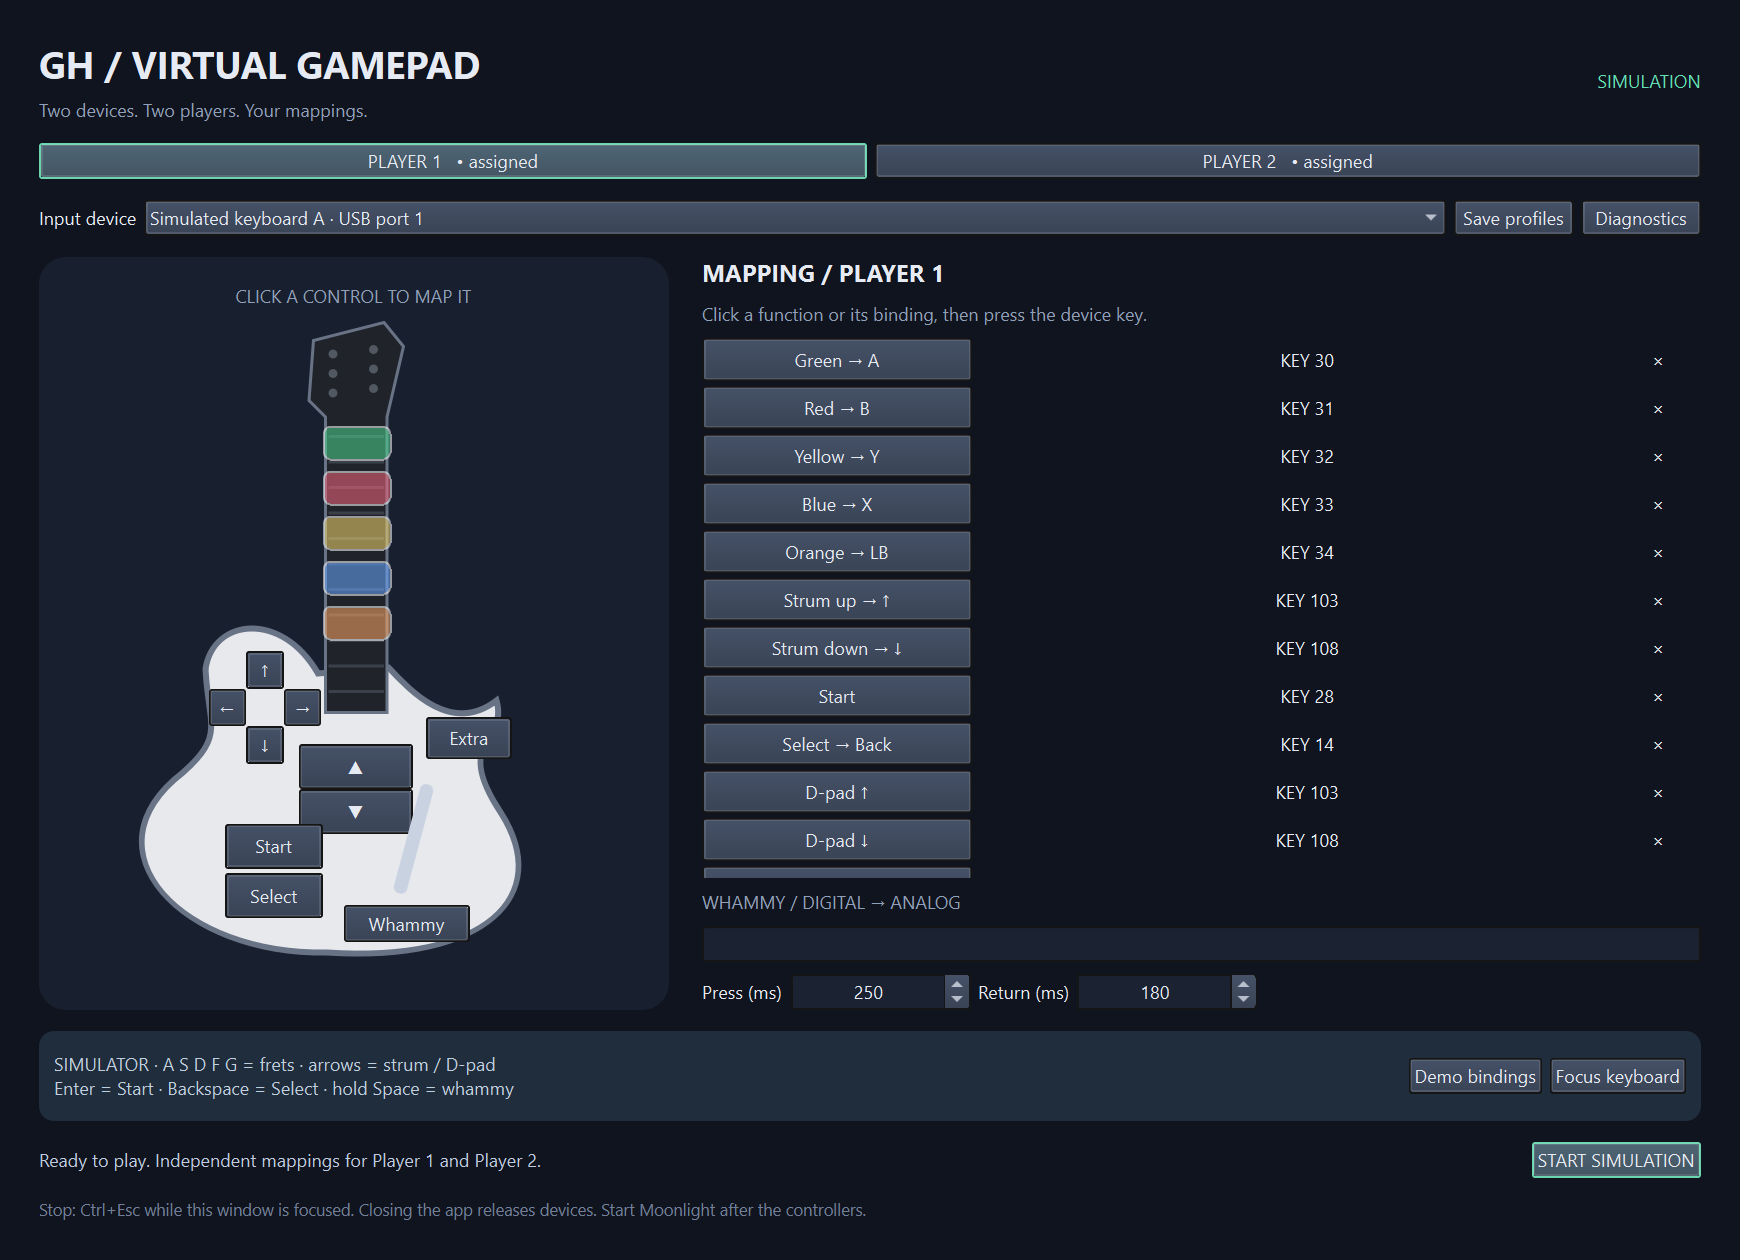
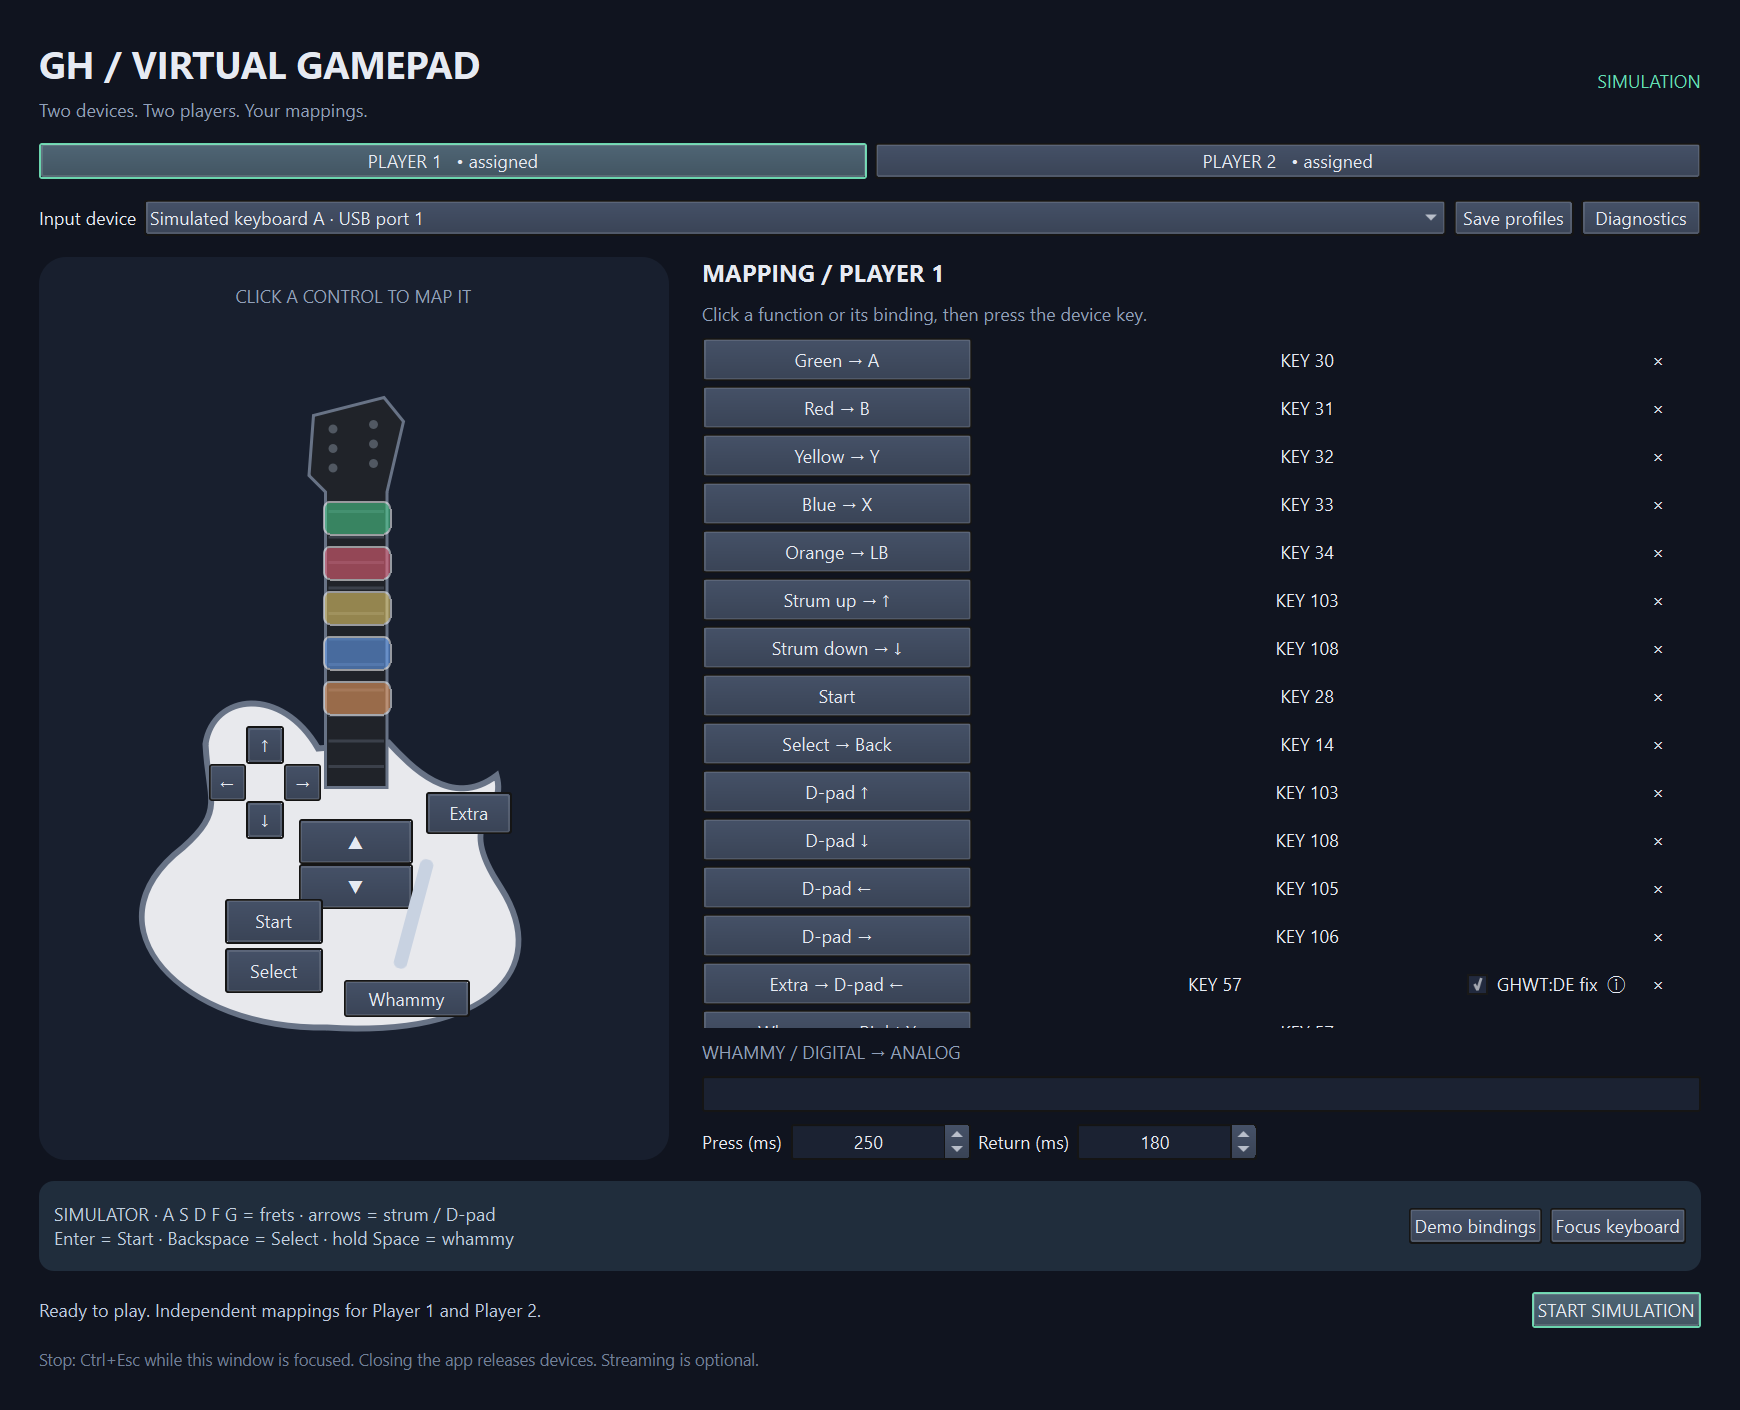
Add optional GHWTDE Extra to D-pad compatibility mode

diff --git a/gui/Main.qml b/gui/Main.qml
@@ -168,7 +168,7 @@ ApplicationWindow {
                                 Button {
                                     objectName: "mapping-" + mappingRow.functionId
                                     Layout.preferredWidth: 180; Layout.preferredHeight: 29
-                                    text: window.labels[index]
+                                    text: mappingRow.functionId === "extra" && bridge.ghwtdeExtraFix ? "Extra → D-pad ←" : window.labels[index]
                                     highlighted: bridge.learningAction === mappingRow.functionId || !!bridge.pad.buttons[mappingRow.functionId]
                                     enabled: !bridge.isRunning
                                     onClicked: window.beginMapping(mappingRow.functionId)
@@ -180,6 +180,17 @@ ApplicationWindow {
                                     enabled: !bridge.isRunning
                                     text: bridge.bindings[mappingRow.functionId] ? ((bridge.bindings[mappingRow.functionId].kind === 1 ? "KEY " : "AXIS ") + bridge.bindings[mappingRow.functionId].code) : "Not mapped — click to assign"
                                     onClicked: window.beginMapping(mappingRow.functionId)
+                                }
+                                CheckBox {
+                                    objectName: mappingRow.functionId === "extra" ? "ghwtde-extra-fix" : ""
+                                    visible: mappingRow.functionId === "extra"
+                                    enabled: !bridge.isRunning
+                                    text: "GHWT:DE fix  ⓘ"
+                                    checked: bridge.ghwtdeExtraFix
+                                    onClicked: bridge.setGhwtdeExtraFix(checked)
+                                    ToolTip.visible: hovered
+                                    ToolTip.delay: 300
+                                    ToolTip.text: "Makes Extra / guitar tilt output D-pad Left instead of RB.\nEnable this when GHWT:DE cannot bind Extra to a dedicated button."
                                 }
                                 ToolButton { objectName: "clear-" + mappingRow.functionId; text: "×"; enabled: !bridge.isRunning; onClicked: bridge.clearBinding(mappingRow.functionId) }
                             }

diff --git a/tests/test_gui.py b/tests/test_gui.py
@@ -34,7 +34,7 @@ class Gui(unittest.TestCase):
     def click(self, window, name):
         item = self.find_item(window, name)
         self.assertIsNotNone(item, name)
-        if name.startswith(("mapping-", "binding-", "clear-")):
+        if name.startswith(("mapping-", "binding-", "clear-", "ghwtde-extra-fix")):
             scroll = self.find_item(window, "mappingScroll")
             viewport = scroll.property("contentItem")
             center = item.mapToScene(QPointF(item.width()/2, item.height()/2))
@@ -87,6 +87,8 @@ class Gui(unittest.TestCase):
                 self.click(window, "clear-green")
                 self.assertNotIn("green", bridge.profiles[0]["bindings"])
                 bridge.demoDefaults()
+                self.click(window, "ghwtde-extra-fix")
+                self.wait(lambda: bridge.profiles[0]["ghwtde_extra_fix"])
                 first_profile = json.loads(json.dumps(bridge.profiles[0]))
                 bridge.setPlayer(1)
                 bridge.selectDevice(2)
@@ -112,6 +114,7 @@ class Gui(unittest.TestCase):
                 bridge.save()
                 data = json.loads(bridge.profile_path.read_text())
                 self.assertEqual(data["profiles"][0]["bindings"]["green"]["code"], 30)
+                self.assertTrue(data["profiles"][0]["ghwtde_extra_fix"])
                 bridge.exportReport()
                 report = json.loads((Path(folder) / "diagnostics.json").read_text())
                 self.assertNotIn("recent", report)
@@ -126,6 +129,7 @@ class Gui(unittest.TestCase):
             restored = Bridge(True, executable, folder)
             try:
                 self.assertEqual(restored.profiles[0]["bindings"]["green"]["code"], 30)
+                self.assertTrue(restored.profiles[0]["ghwtde_extra_fix"])
                 self.wait(lambda: restored.selected[0] == "demo-1")
             finally: restored.shutdown()
 

diff --git a/gui/app.py b/gui/app.py
@@ -17,13 +17,16 @@ DEMO_KEYS = {Qt.Key_A: 30, Qt.Key_S: 31, Qt.Key_D: 32, Qt.Key_F: 33, Qt.Key_G: 3
 
 
 def default_profile():
-    return {"bindings": {}, "rise_ms": 250.0, "return_ms": 180.0}
+    return {"bindings": {}, "rise_ms": 250.0, "return_ms": 180.0, "ghwtde_extra_fix": False}
 
 
 def validate_config(data):
     if data.get("version") != 1 or len(data.get("profiles", [])) != 2 or len(data.get("selected", [])) != 2:
         raise ValueError("Unsupported profile file")
     for profile in data["profiles"]:
+        profile.setdefault("ghwtde_extra_fix", False)
+        if not isinstance(profile["ghwtde_extra_fix"], bool):
+            raise ValueError("Invalid GHWT:DE Extra fix setting")
         for key in ("rise_ms", "return_ms"):
             if not isinstance(profile[key], (int, float)) or not 10 <= profile[key] <= 10000:
                 raise ValueError("Invalid whammy timing")
@@ -124,6 +127,8 @@ class Bridge(QObject):
     def riseMs(self): return self.profiles[self.active]["rise_ms"]
     @Property(float, notify=changed)
     def returnMs(self): return self.profiles[self.active]["return_ms"]
+    @Property(bool, notify=changed)
+    def ghwtdeExtraFix(self): return self.profiles[self.active]["ghwtde_extra_fix"]
 
     def error(self, message):
         self.message = message
@@ -249,6 +254,12 @@ class Bridge(QObject):
         if self.running: return
         self.profiles[self.active]["rise_ms"] = max(10, min(10000, rise))
         self.profiles[self.active]["return_ms"] = max(10, min(10000, fall))
+        self.sync_profile(self.active); self.changed.emit()
+
+    @Slot(bool)
+    def setGhwtdeExtraFix(self, enabled):
+        if self.running: return
+        self.profiles[self.active]["ghwtde_extra_fix"] = enabled
         self.sync_profile(self.active); self.changed.emit()
 
     @Slot()

diff --git a/src/lib.rs b/src/lib.rs
@@ -33,6 +33,8 @@ pub struct Profile {
     pub bindings: BTreeMap<String, Binding>,
     pub rise_ms: f64,
     pub return_ms: f64,
+    #[serde(default)]
+    pub ghwtde_extra_fix: bool,
 }
 
 impl Default for Profile {
@@ -41,6 +43,7 @@ impl Default for Profile {
             bindings: BTreeMap::new(),
             rise_ms: 250.0,
             return_ms: 180.0,
+            ghwtde_extra_fix: false,
         }
     }
 }
@@ -136,7 +139,9 @@ impl Mapper {
     }
     pub fn hat(&self) -> (i32, i32) {
         (
-            self.pressed("right") as i32 - self.pressed("left") as i32,
+            self.pressed("right") as i32
+                - (self.pressed("left") || (self.profile.ghwtde_extra_fix && self.pressed("extra")))
+                    as i32,
             (self.pressed("down") || self.pressed("strum_down")) as i32
                 - (self.pressed("up") || self.pressed("strum_up")) as i32,
         )
@@ -217,5 +222,23 @@ mod tests {
             ..Profile::default()
         };
         assert!(p.validate().is_err());
+    }
+
+    #[test]
+    fn ghwtde_fix_routes_extra_to_dpad_left() {
+        let mut m = mapper("extra", 1);
+        m.profile.ghwtde_extra_fix = true;
+        m.input("keyboard", 1, 30, 1);
+        assert!(m.pressed("extra"));
+        assert_eq!(m.hat(), (-1, 0));
+        m.state.buttons.insert("right".into(), true);
+        assert_eq!(m.hat(), (0, 0));
+    }
+
+    #[test]
+    fn old_profile_defaults_extra_fix_to_disabled() {
+        let profile: Profile =
+            serde_json::from_str(r#"{"bindings":{},"rise_ms":250.0,"return_ms":180.0}"#).unwrap();
+        assert!(!profile.ghwtde_extra_fix);
     }
 }

diff --git a/src/windows.rs b/src/windows.rs
@@ -313,7 +313,7 @@ fn report(map: &Mapper) -> XGamepad {
         ("start", XButtons::START),
         ("select", XButtons::BACK),
     ] {
-        if map.pressed(action) {
+        if map.pressed(action) && (action != "extra" || !map.profile.ghwtde_extra_fix) {
             buttons |= flag;
         }
     }
@@ -413,10 +413,23 @@ mod tests {
     fn output_layout_and_axis() {
         let mut map = Mapper::default();
         map.state.buttons.insert("green".into(), true);
+        map.state.buttons.insert("extra".into(), true);
         map.state.buttons.insert("strum_down".into(), true);
         map.state.whammy = 1.0;
         let output = report(&map);
-        assert_eq!(output.buttons.raw, XButtons::A | XButtons::DOWN);
+        assert_eq!(
+            output.buttons.raw,
+            XButtons::A | XButtons::RB | XButtons::DOWN
+        );
         assert_eq!(output.thumb_ry, 32767);
+    }
+
+    #[test]
+    fn ghwtde_fix_outputs_extra_as_dpad_left_only() {
+        let mut map = Mapper::default();
+        map.profile.ghwtde_extra_fix = true;
+        map.state.buttons.insert("extra".into(), true);
+        let output = report(&map);
+        assert_eq!(output.buttons.raw, XButtons::LEFT);
     }
 }

diff --git a/tools/screenshot.py b/tools/screenshot.py
@@ -28,12 +28,14 @@ with tempfile.TemporaryDirectory(prefix="ghvp-screenshot-") as config:
             bridge.selectDevice(player + 1)
             bridge.demoDefaults()
         bridge.setPlayer(0)
+        bridge.setGhwtdeExtraFix(True)
         bridge.error("Ready to play. Independent mappings for Player 1 and Player 2.")
+        engine.rootObjects()[0].setHeight(1000)
     def capture():
         if not engine.rootObjects()[0].grabWindow().save(str(ROOT / "docs/screenshot.png")):
             raise RuntimeError("Screenshot failed")
         application.quit()
     QTimer.singleShot(500, setup)
-    QTimer.singleShot(1000, capture)
+    QTimer.singleShot(1200, capture)
     application.aboutToQuit.connect(bridge.shutdown)
     application.exec()

diff --git a/tools/build_frozen.py b/tools/build_frozen.py
@@ -23,7 +23,7 @@ def build():
         "--add-data", str(ROOT / "tools/setup_linux.py") + ":tools",
         "--add-binary", str(ROOT / "target/release/ghvirtualgamepad") + ":bin",
         str(ROOT / "gui/app.py")], cwd=ROOT, check=True)
-    destination = ROOT / "artifacts/ghvirtualgamepad-0.2.0-rc.1-linux-x86_64.tar.gz"
+    destination = ROOT / "artifacts/ghvirtualgamepad-0.2.0-rc.2-linux-x86_64.tar.gz"
     with tarfile.open(destination, "w:gz") as archive:
         archive.add(ROOT / "artifacts/frozen/GHVirtualGamePad", arcname="ghvirtualgamepad/app")
         for relative in ["assets", "docs", "tools/install_linux.py", "LICENSE", "README.md", "THIRD_PARTY.md", "CHANGELOG.md"]:

diff --git a/tests/test_app.py b/tests/test_app.py
@@ -24,6 +24,13 @@ class Profiles(unittest.TestCase):
             data["profiles"][0]["rise_ms"] = 0
             with self.assertRaises(ValueError): validate_config(data)
 
+    def test_old_profile_adds_disabled_extra_fix(self):
+        data = {"version": 1, "profiles": [
+            {"bindings": {}, "rise_ms": 250.0, "return_ms": 180.0},
+            {"bindings": {}, "rise_ms": 250.0, "return_ms": 180.0}], "selected": ["", ""]}
+        validated = validate_config(data)
+        self.assertFalse(validated["profiles"][0]["ghwtde_extra_fix"])
+
 
 class Protocol(unittest.TestCase):
     def setUp(self):

diff --git a/src/linux.rs b/src/linux.rs
@@ -298,7 +298,11 @@ impl Backend {
                 ("start", 315),
             ]
             .iter()
-            .map(|(action, code)| (1, *code, map.pressed(action) as i32))
+            .map(|(action, code)| {
+                let pressed =
+                    map.pressed(action) && (*action != "extra" || !map.profile.ghwtde_extra_fix);
+                (1, *code, pressed as i32)
+            })
             .collect();
             let (x, y) = map.hat();
             state.extend([

diff --git a/README.md b/README.md
@@ -27,7 +27,7 @@ Built for DOYO guitars and games such as **Guitar Hero World Tour: Definitive Ed
 
 You need distinguishable input devices. If one receiver merges both guitars into identical keyboard events, software cannot recover which guitar sent them.
 
-## Platform status — 0.2.0-rc.1
+## Platform status — 0.2.0-rc.2
 
 This is a **release candidate**, not a claim that every receiver and Windows security configuration has been validated.
 
@@ -42,7 +42,7 @@ Linux exposes an Xbox-layout uinput gamepad, not the Xbox USB protocol. Windows 
 
 ### Linux / CachyOS
 
-Download `ghvirtualgamepad-0.2.0-rc.1-linux-x86_64.tar.gz`, extract it, then run **without sudo**:
+Download `ghvirtualgamepad-0.2.0-rc.2-linux-x86_64.tar.gz`, extract it, then run **without sudo**:
 
 ```bash
 cd ghvirtualgamepad
@@ -58,7 +58,7 @@ Launch **GHVirtualGamePad** from your application menu. The bundle includes Pyth
 
 ### Windows
 
-Run `GHVirtualGamePad-0.2.0-rc.1-windows-x64-setup.exe`. It installs the application, icon, Start-menu shortcut and optional desktop shortcut. Python and Rust are **not required**.
+Run `GHVirtualGamePad-0.2.0-rc.2-windows-x64-setup.exe`. It installs the application, icon, Start-menu shortcut and optional desktop shortcut. Python and Rust are **not required**.
 
 The installer offers missing dependencies using bundled, SHA-256-pinned upstream payloads:
 
@@ -79,6 +79,7 @@ Windows mappings are saved, but **receivers must be selected each session**: Int
 2. Select the first receiver for **Player 1**. Identify it by unplugging/replugging if necessary.
 3. Click a fret, function name or binding value. Press and release its physical control. Unused functions can remain blank.
 4. Map whammy as a button. **Press (ms)** controls travel to full deflection; **Return (ms)** controls spring-back.
+   For GHWT:DE, enable **GHWT:DE fix** beside Extra if the game only accepts that action from a D-pad direction. Extra will output D-pad Left instead of RB for that player.
 5. Switch to **Player 2**, choose the other receiver, and repeat. One guitar also works alone.
 6. Click **Save profiles**, release every physical control, then **Start controllers**. Launch the local game and bind both controllers. If you use Moonlight or another streaming solution, connect it after starting the controllers.
 
@@ -91,7 +92,8 @@ Stop before editing. Close the app normally to release capture and virtual contr
 | Green / Red / Yellow / Blue / Orange | A / B / Y / X / LB |
 | Strum up / down | D-pad up / down |
 | D-pad | D-pad |
-| Start / Select / Extra | Start / Back / RB |
+| Start / Select | Start / Back |
+| Extra | RB, or D-pad Left with the optional GHWT:DE fix |
 | Digital whammy | Right stick Y: neutral → positive full scale → neutral |
 
 These are output defaults, not assumed physical key codes. Teach your receiver once, then map the resulting controller in the game. Whammy is a synthetic axis, not a measurement of physical lever position.

diff --git a/docs/release-0.2.0-rc.2.md b/docs/release-0.2.0-rc.2.md
@@ -1,0 +1,24 @@
+# GHVirtualGamePad 0.2.0-rc.2
+
+This release candidate adds the requested **GHWT:DE Extra fix** and includes all functionality from 0.2.0-rc.1.
+
+## New in rc.2
+
+- A per-player checkbox appears directly beside the **Extra** binding.
+- Normally Extra outputs RB. With **GHWT:DE fix** enabled, Extra / guitar tilt outputs **D-pad Left only**, allowing GHWT:DE to bind it through the D-pad.
+- Hover the information symbol for an explanation in the app.
+- The option is saved independently for both players.
+- Existing profiles remain compatible and load with the fix disabled.
+- Documentation now treats local play as the default. Moonlight, VDI and other streaming software are optional.
+
+## Downloads
+
+- **Linux / CachyOS x86_64:** extract the `.tar.gz`, enter `ghvirtualgamepad`, run `bash install.sh` without sudo, or launch `app/GHVirtualGamePad` directly.
+- **Windows x64:** run the setup EXE. It contains the app runtime and offers installation of missing ViGEmBus/Interception dependencies.
+- **SHA256SUMS.txt:** verify both downloads. The Windows application installer is not Authenticode-signed.
+
+## Release-candidate status
+
+Automated tests cover the normal Extra → RB route, the compatibility Extra → D-pad Left route, profile migration, per-player GUI persistence, mapping logic and both installer paths. Linux guitar operation has been reported working. Windows keyboard enumeration and two independent XInput reports have been verified, but full physical two-guitar gameplay and fresh driver installation still require acceptance testing.
+
+Windows users must not disable Secure Boot, Memory Integrity or signature enforcement. ViGEmBus is retired, and Interception is a legacy system-wide input filter whose upstream binary terms are for non-commercial use. Receivers must be selected on each Windows launch; mappings and the compatibility checkbox remain saved.

diff --git a/docs/README.pl.md b/docs/README.pl.md
@@ -6,7 +6,7 @@ Dwie gitary USB działające jako klawiatury → dwa niezależne wirtualne pady.
 
 ## Status
 
-0.2.0-rc.1 to kandydat do wydania stabilnego. Linux został sprawdzony przez właściciela na fizycznych gitarach. Windows ma rzeczywisty backend: sprawdzono wykrywanie klawiatur i dwa niezależne odczyty XInput. Pełny test dwóch gitar, blokowania oryginalnych klawiszy i gry na Windowsie pozostaje do wykonania.
+0.2.0-rc.2 to kandydat do wydania stabilnego. Linux został sprawdzony przez właściciela na fizycznych gitarach. Windows ma rzeczywisty backend: sprawdzono wykrywanie klawiatur i dwa niezależne odczyty XInput. Pełny test dwóch gitar, blokowania oryginalnych klawiszy i gry na Windowsie pozostaje do wykonania.
 
 ## Linux / CachyOS
 
@@ -36,6 +36,7 @@ Mapowania są zapisywane, ale na Windowsie odbiorniki trzeba wybrać przy każdy
 2. Wybierz odbiornik gracza 1. Na Linuxie w razie braku dostępu użyj **Enable device access**, zatwierdź polkit; w razie potrzeby podłącz odbiornik ponownie.
 3. Kliknij element gitary, nazwę funkcji lub pole mapowania. Naciśnij i puść przycisk. Niepotrzebne funkcje mogą być puste.
 4. Whammy przypisz jak przycisk. **Press (ms)** to czas wychylenia, **Return (ms)** — powrotu osi.
+   Dla GHWT:DE zaznacz **GHWT:DE fix** obok Extra, jeżeli gra pozwala przypisać tę funkcję tylko do D-pada. Extra będzie wtedy wysyłać D-pad Left zamiast RB, osobno dla wybranego gracza.
 5. Powtórz dla gracza 2 z drugim odbiornikiem. Jedna gitara też działa.
 6. **Save profiles**, puść wszystkie przyciski, następnie **Start controllers**. Uruchom grę lokalnie i przypisz kontrolery. Jeżeli korzystasz z Moonlight lub innego streamingu, połącz go dopiero po uruchomieniu kontrolerów.
 
